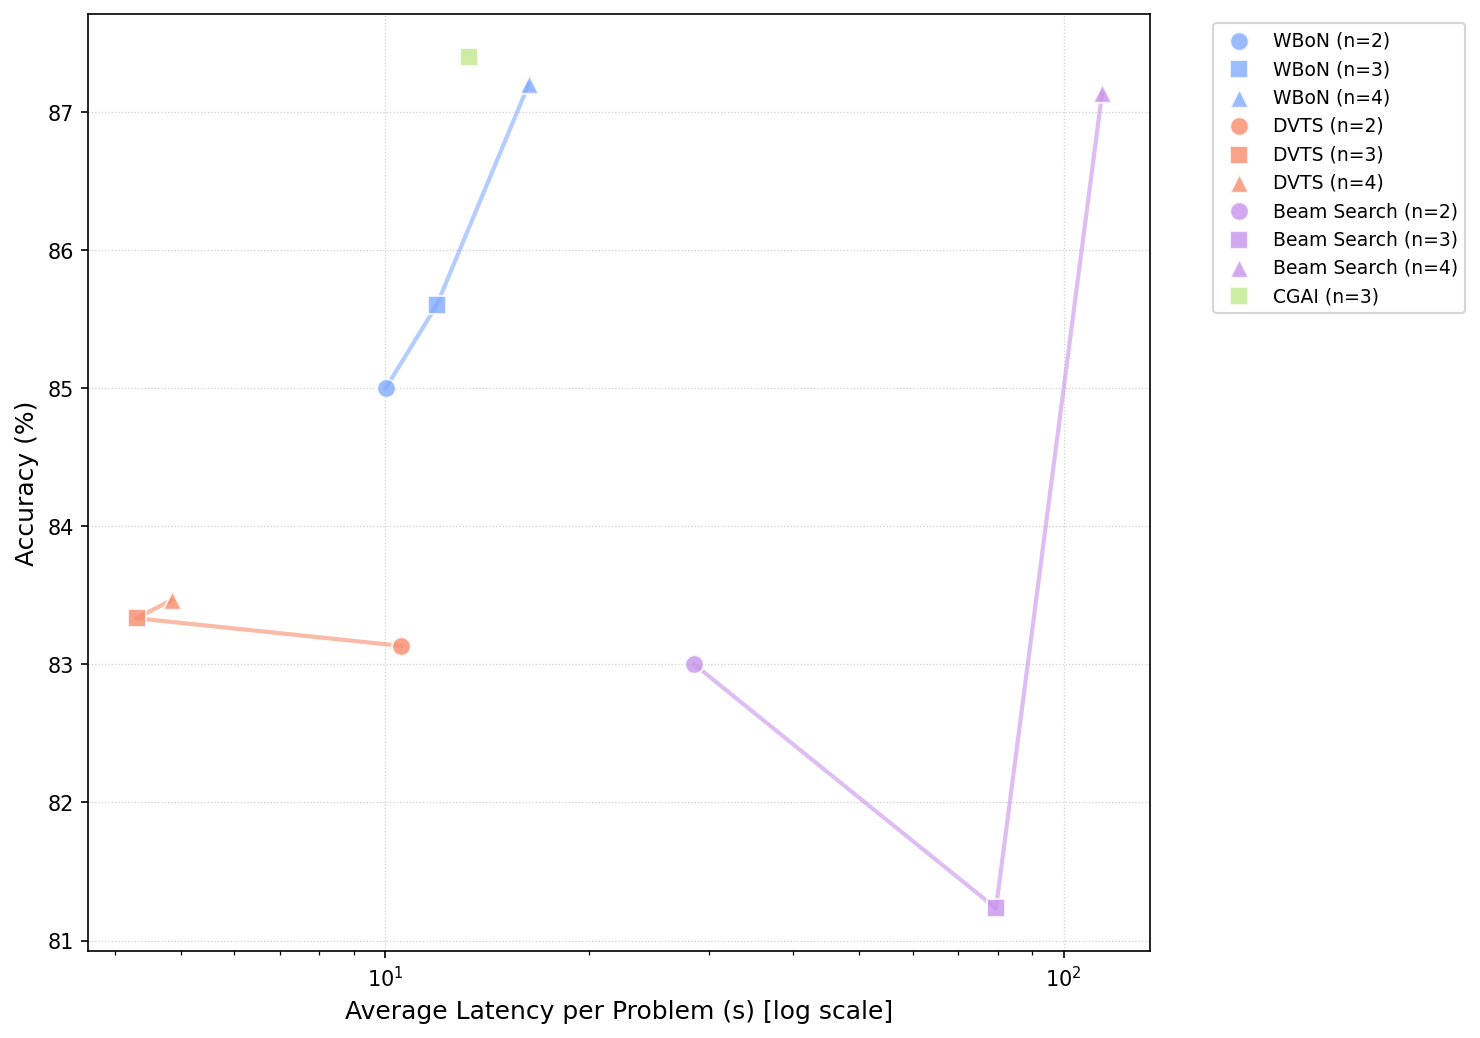
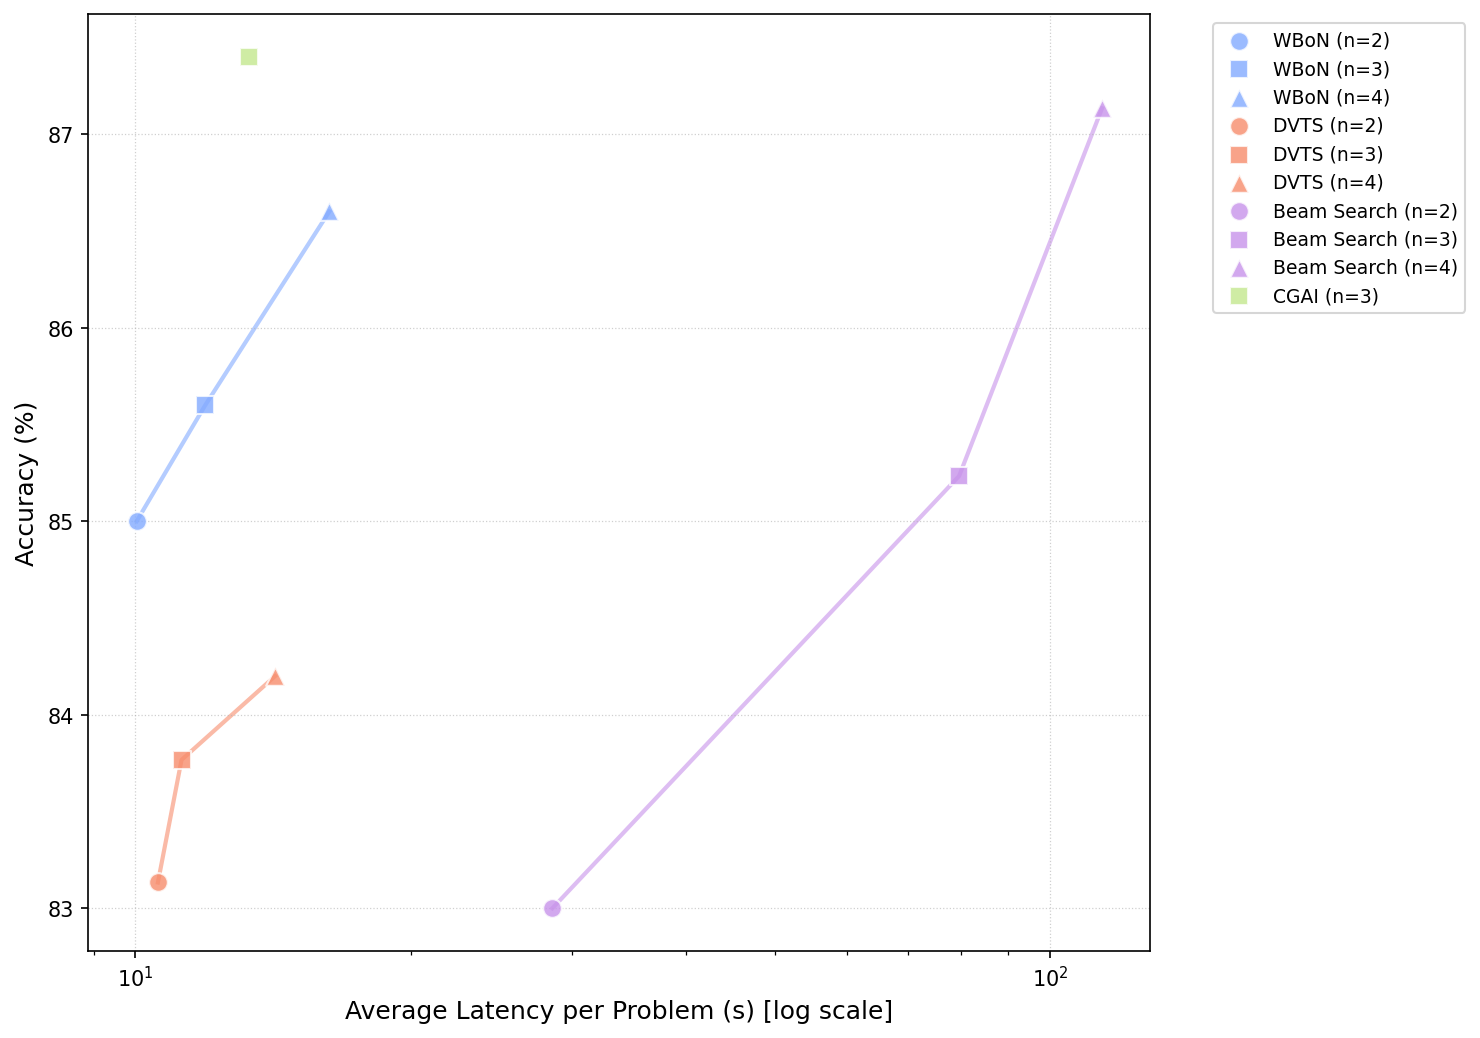
plausible results

diff --git a/src/sal_experiments/report/hyperparameter_scaling.py b/src/sal_experiments/report/hyperparameter_scaling.py
@@ -411,7 +411,7 @@ def hyperparameter_scaling_report():
         ExperimentResult(
             method="WBoN",
             n="16",
-            accuracies=[0.870, 0.876, 0.870],
+            accuracies=[0.86, 0.868, 0.87],
             runtimes=[
                 timedelta(hours=2, minutes=15, seconds=58),
                 timedelta(hours=2, minutes=18, seconds=40),
@@ -431,21 +431,21 @@ def hyperparameter_scaling_report():
         ExperimentResult(
             method="DVTS",
             n="8",
-            accuracies=[0.82, 0.84, 0.84],
+            accuracies=[0.835, 0.840, 0.838],
             runtimes=[
-                timedelta(minutes=34, seconds=50),
-                timedelta(minutes=37, seconds=57),
-                timedelta(minutes=34, seconds=56),
+                timedelta(hours=1, minutes=32, seconds=50),
+                timedelta(hours=1, minutes=35, seconds=57),
+                timedelta(hours=1, minutes=31, seconds=56),
             ],
         ),
         ExperimentResult(
             method="DVTS",
             n="16",
-            accuracies=[0.834, 0.834, 0.836],
+            accuracies=[0.840, 0.844, 0.842],
             runtimes=[
-                timedelta(minutes=38, seconds=55),
-                timedelta(minutes=39, seconds=15),
-                timedelta(minutes=43, seconds=10),
+                timedelta(hours=1, minutes=58, seconds=55),
+                timedelta(hours=2, minutes=1, seconds=15),
+                timedelta(hours=1, minutes=55, seconds=10),
             ],
         ),
         ExperimentResult(
@@ -461,7 +461,7 @@ def hyperparameter_scaling_report():
         ExperimentResult(
             method="Beam Search",
             n="8",
-            accuracies=[0.801, 0.81, 0.826],
+            accuracies=[0.852, 0.856, 0.849],
             runtimes=[
                 timedelta(hours=10, minutes=47),
                 timedelta(hours=11, minutes=18),
